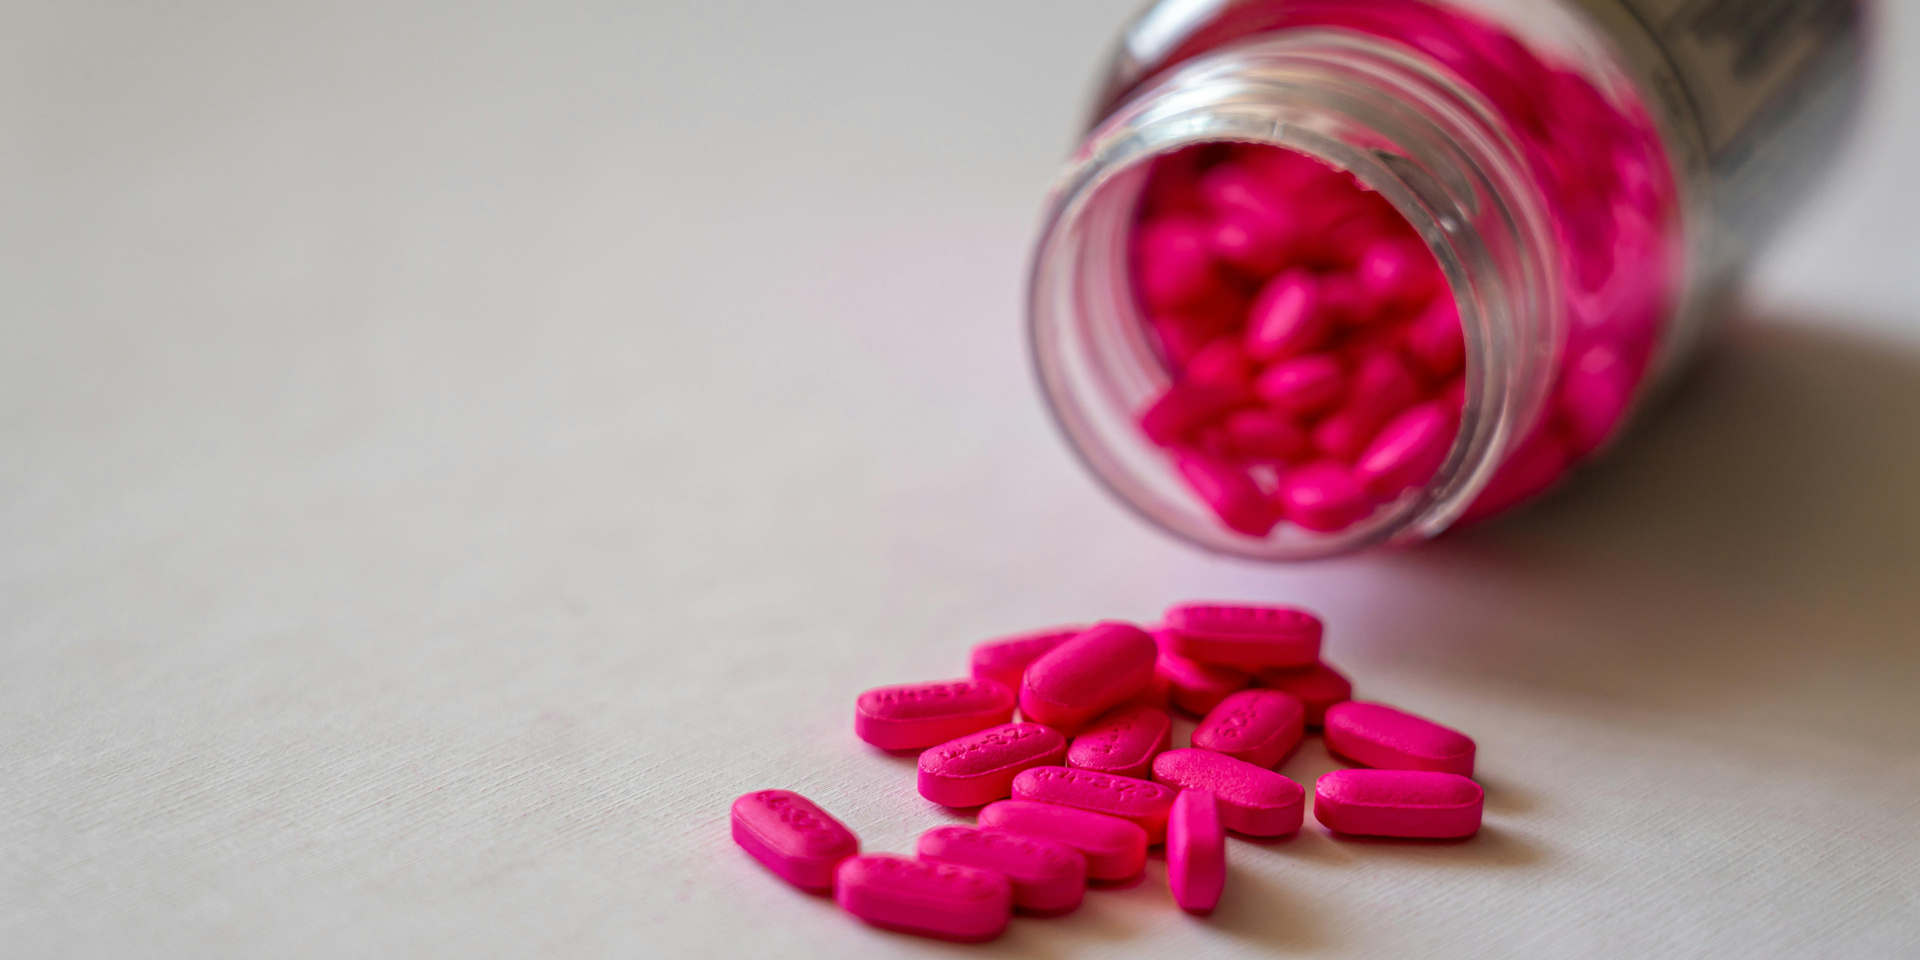
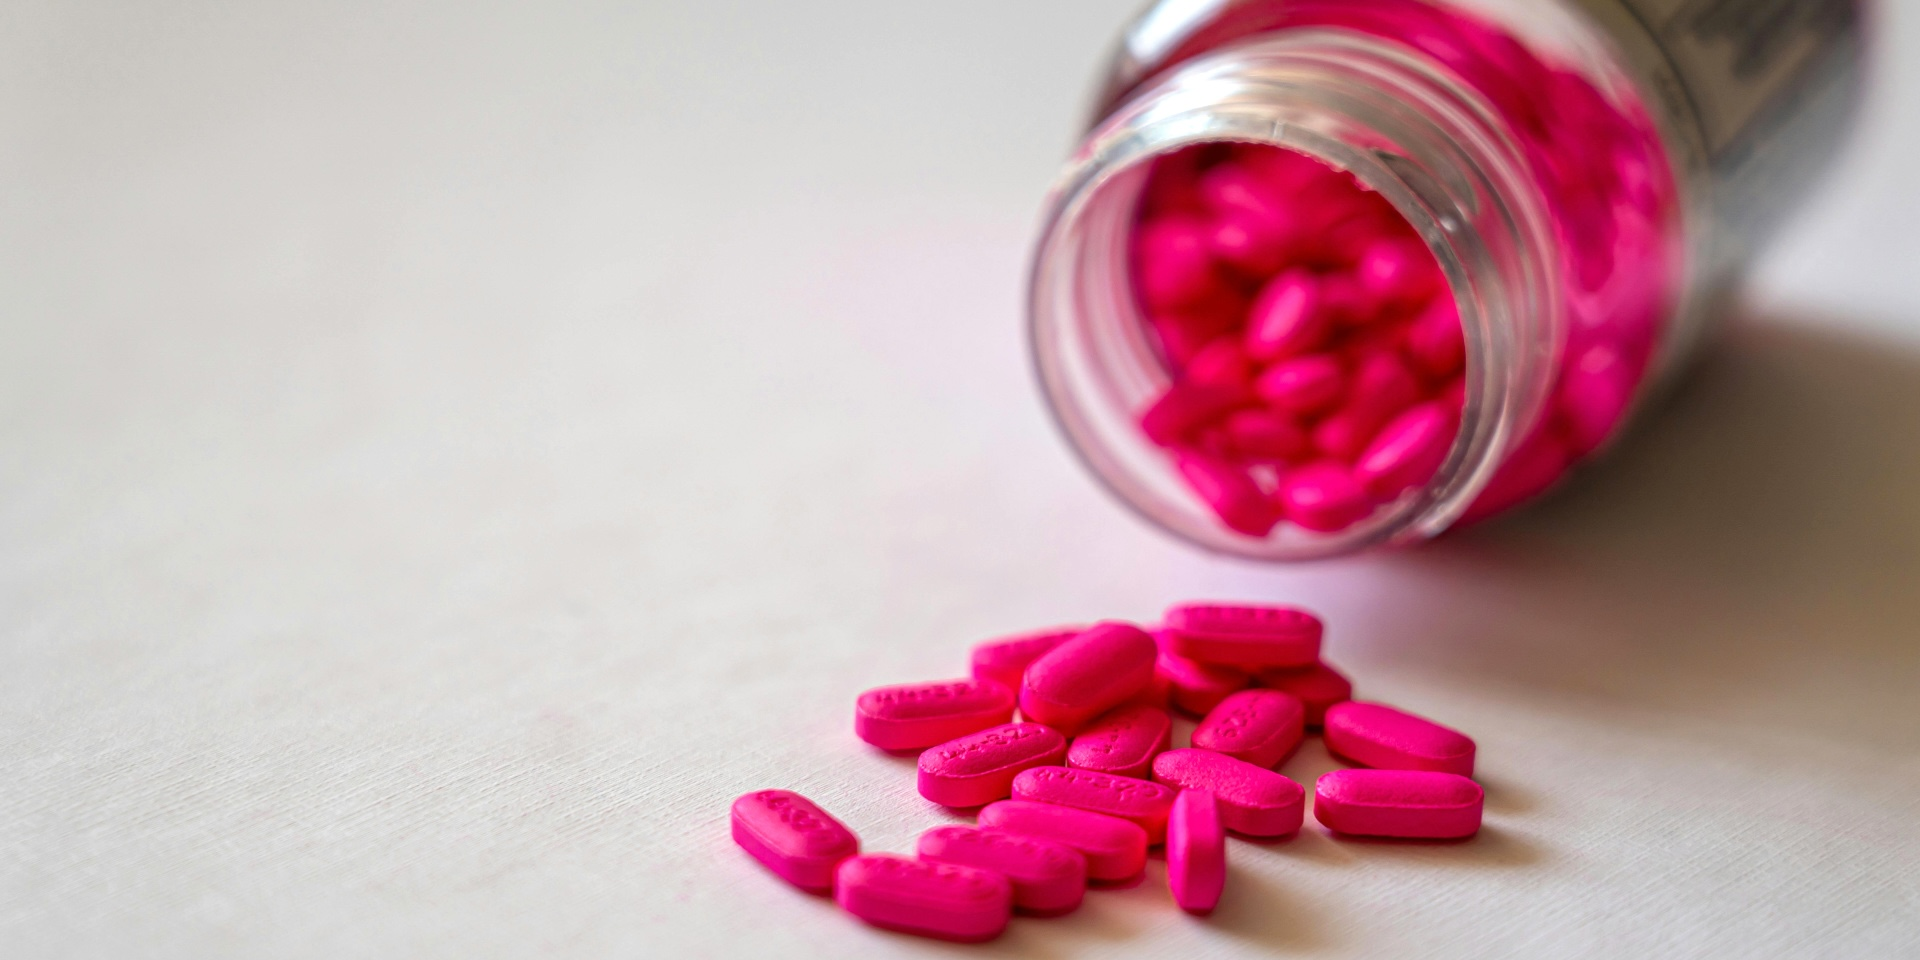
Recolor image

diff --git a/README.md b/README.md
@@ -80,7 +80,7 @@ Mast Cell Help: this guide is for mast cell information about health symptoms, d
 
 <img src="assets/images/pexels/pexels-cottonbro-studio-6969266/1920x960.jpg" alt="vegetables" style="width: 100%;"/>
 
-## [Elimination diet](topics/elimination-diet)
+### [Elimination diet](topics/elimination-diet)
 
 * [Low-histamine diet](topics/low-histamine-diet)
 * [Low-allergen diet](topics/low-allergen-diet)
